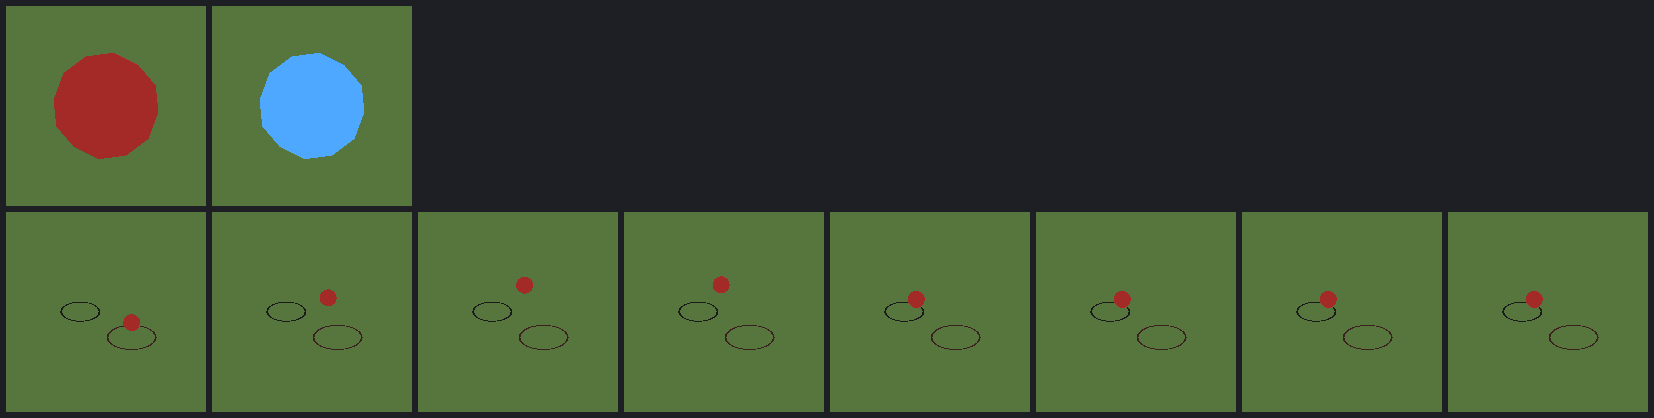
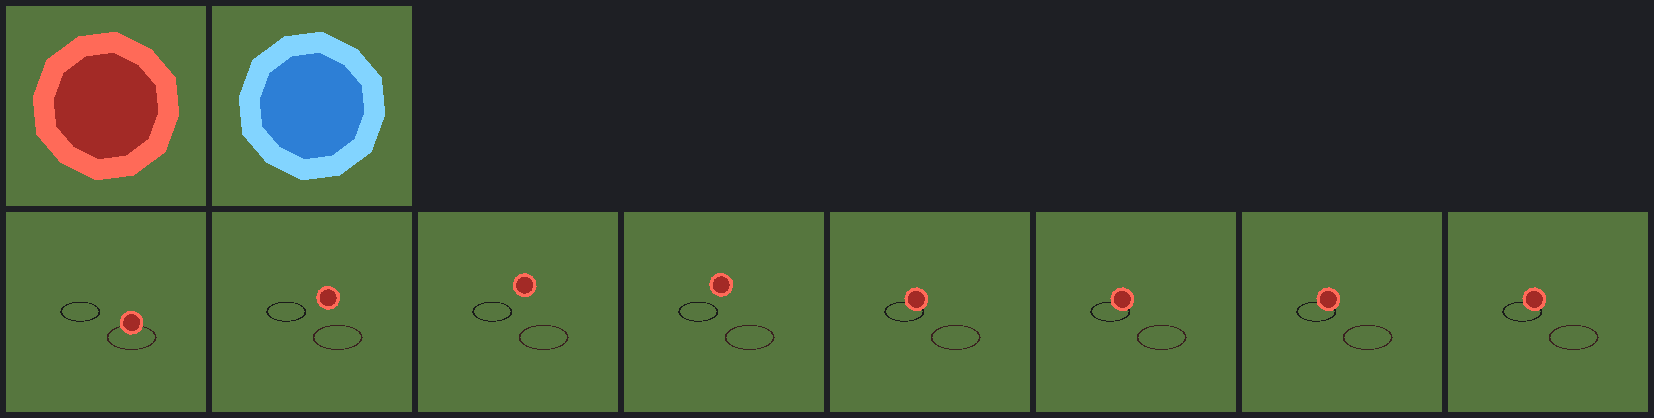
Rim a mote so it separates from the grass
A 7-unit ball of deep blood on a mid-green field is one dark dot among the tree
shadows. The rim is a back-faced shell a little larger than the core -- the
classic cheap outline, and the right one here because this scene is already
flat-shaded and back-face culled, so only the far side survives and what is
drawn is a rim peeking out rather than a second ball in front. One extra draw,
no shader, no second pass.

The three orb knobs became one options bag on the way past, because
`new ShotRig('orb', 7, 0xa32a26, 1, 0xff6a58)` says nothing to a reader.

preview-motes.ts had to learn about BackSide to stay honest: its rasteriser
culls back faces like the real renderer, so a shell would have been culled in
the picture and drawn in the game -- a preview confidently photographing a mote
with no rim on it, which is worse than having no preview.

Claude-Session: https://claude.ai/code/session_01PdFEgGgFpaTyzs239mM4bg

diff --git a/src/render/iso3d/world/shot.ts b/src/render/iso3d/world/shot.ts
@@ -41,6 +41,31 @@ const TRACE_SAMPLES = 16;
 const TRACE_SPACING = 0.55;
 const TRACE_WIDTH = 0.42;
 const TRACE_LIFT = 2.5;
+/**
+ * How much larger the outline shell is than the orb it rims (spec 154).
+ *
+ * A ratio rather than a width in world units, so the rim is the same fraction
+ * of the ball whatever size the ball is -- a mote is 7 units across and the
+ * outline has to survive being drawn a few pixels wide.
+ */
+const OUTLINE_SCALE = 1.4;
+
+/**
+ * How to draw an orb: its colour, how round it is, and what rims it.
+ *
+ * Every field optional, and all three absent is the arcane bolt exactly as it
+ * has always been -- so the one caller that wants none of this passes nothing.
+ */
+export interface OrbLook {
+  readonly tint?: number | undefined;
+  /**
+   * Icosahedron subdivisions. A mote wants a sphere; a conjured bolt is
+   * supposed to look cut from glass and is on screen for a moment.
+   */
+  readonly detail?: number | undefined;
+  /** A brighter shell behind the core, or absent for no rim. */
+  readonly outline?: number | undefined;
+}
 
 export class ShotRig {
   readonly group = new THREE.Group();
@@ -80,13 +105,18 @@ export class ShotRig {
      * its colour is the whole of its identity. A mote reuses this rig rather
      * than growing a second one, and this is the one thing it has to change.
      */
-    tint?: number,
     /**
-     * Icosahedron subdivisions for the orb, or absent for the faceted default
-     * (spec 154). A mote wants a sphere; a conjured bolt is supposed to look
-     * cut from glass and is on screen for a moment.
+     * How to draw the orb, or absent for the arcane core it has always been
+     * (spec 154).
+     *
+     * Orb only, and deliberately: an arrow and a star are *objects* whose
+     * materials say what they are made of, where an orb is a bead of light and
+     * how it is coloured is the whole of its identity. A mote reuses this rig
+     * rather than growing a second one, and this bag is everything it needs to
+     * change. One object rather than three positional arguments, because
+     * `new ShotRig('orb', 7, 0xa32a26, 1, 0xff6a58)` says nothing to a reader.
      */
-    detail?: number,
+    orb?: OrbLook,
   ) {
     this.group.add(this.pivot);
 
@@ -100,7 +130,7 @@ export class ShotRig {
         break;
       default:
         this.spinner = null;
-        this.buildOrb(radius, tint, detail);
+        this.buildOrb(radius, orb);
         break;
     }
 
@@ -235,10 +265,27 @@ export class ShotRig {
   }
 
   /** The look every shot had before this spec, and what an unknown one gets. */
-  private buildOrb(radius: number, tint?: number, detail?: number): void {
+  private buildOrb(radius: number, orb?: OrbLook): void {
+    const size = Math.max(3, radius);
+    // The outline goes on *first* so it is behind the core in draw order, which
+    // costs nothing and means the pair still reads correctly if a caller ever
+    // turns depth testing off.
+    if (orb?.outline !== undefined) {
+      // A back-faced shell: the classic cheap outline, and the right one here
+      // because everything in this scene is already flat-shaded and back-face
+      // culled. Only the far side of the shell survives the cull, so what is
+      // drawn is a rim peeking out around the core rather than a second ball in
+      // front of it -- no shader, no second pass, one extra draw of eighty
+      // triangles.
+      const shell = new THREE.Mesh(
+        this.track(new THREE.IcosahedronGeometry(size * OUTLINE_SCALE, orb.detail ?? 0)),
+        this.track(new THREE.MeshBasicMaterial({ color: orb.outline, side: THREE.BackSide })),
+      );
+      this.pivot.add(shell);
+    }
     const mesh = new THREE.Mesh(
-      this.track(new THREE.IcosahedronGeometry(Math.max(3, radius), detail ?? 0)),
-      this.track(new THREE.MeshBasicMaterial({ color: tint ?? PALETTE.magicCore })),
+      this.track(new THREE.IcosahedronGeometry(size, orb?.detail ?? 0)),
+      this.track(new THREE.MeshBasicMaterial({ color: orb?.tint ?? PALETTE.magicCore })),
     );
     this.pivot.add(mesh);
   }

diff --git a/scripts/preview-motes.ts b/scripts/preview-motes.ts
@@ -69,6 +69,15 @@ interface Tri {
   readonly color: THREE.Color;
   /** Unlit, like the game's own `MeshBasicMaterial` orbs. */
   readonly flat: boolean;
+  /**
+   * Drawn from the inside, like the outline shell (spec 154).
+   *
+   * The rasteriser culls back faces because the real renderer does, and the
+   * outline is a `BackSide` mesh -- so without this the shell would be culled
+   * here and drawn in the game, and this preview would confidently photograph a
+   * mote with no rim on it. That is worse than having no preview.
+   */
+  readonly inside: boolean;
 }
 
 /** Every triangle under `root`, in world space, with its material's colour. */
@@ -88,6 +97,7 @@ function collectTriangles(node3d: THREE.Object3D, into: Tri[] = []): Tri[] {
     // which is precisely the kind of quiet infidelity that makes a preview
     // worse than no preview.
     const flat = (material as { isMeshBasicMaterial?: boolean }).isMeshBasicMaterial === true;
+    const inside = material.side === THREE.BackSide;
     const count = index ? index.count : pos.count;
     for (let i = 0; i < count; i += 3) {
       const corners = [0, 1, 2].map((k) => {
@@ -102,6 +112,7 @@ function collectTriangles(node3d: THREE.Object3D, into: Tri[] = []): Tri[] {
         c: corners[2] as THREE.Vector3,
         color: material.color,
         flat,
+        inside,
       });
     }
   });
@@ -121,8 +132,8 @@ function ring(cx: number, cz: number, radius: number, color: number, into: Tri[]
     // Wound so the normal points up: the rasteriser culls back faces like the
     // real renderer, and a ring wound the other way is drawn and then discarded.
     into.push(
-      { a: at(a0, inner), b: at(a1, radius), c: at(a0, radius), color: tint, flat: true },
-      { a: at(a0, inner), b: at(a1, inner), c: at(a1, radius), color: tint, flat: true },
+      { a: at(a0, inner), b: at(a1, radius), c: at(a0, radius), color: tint, flat: true, inside: false },
+      { a: at(a0, inner), b: at(a1, inner), c: at(a1, radius), color: tint, flat: true, inside: false },
     );
   }
   return into;
@@ -174,7 +185,10 @@ function render(
     e1.subVectors(t.b, t.a);
     e2.subVectors(t.c, t.a);
     normal.crossVectors(e1, e2).normalize();
-    if (normal.dot(forward) > 0) continue;
+    // A `BackSide` mesh keeps the half a front-faced one throws away, which is
+    // what makes the shell a rim around the core rather than a ball in front of
+    // it.
+    if (t.inside ? normal.dot(forward) < 0 : normal.dot(forward) > 0) continue;
     const lambert = t.flat ? 1 : AMBIENT + (1 - AMBIENT) * Math.max(0, normal.dot(LIGHT));
     const r = encode(t.color.r * lambert);
     const g = encode(t.color.g * lambert);
@@ -218,7 +232,11 @@ function render(
 /** The rig the game would build for this mote, at the world position given. */
 function moteRig(typeId: string, x: number, y: number, z: number): THREE.Object3D {
   const look = appearanceOf({ kind: EntityKind.Mote, typeId });
-  const rig = new ShotRig(look.look ?? 'orb', look.radius, look.tint, look.detail);
+  const rig = new ShotRig(look.look ?? 'orb', look.radius, {
+    tint: look.tint,
+    detail: look.detail,
+    outline: look.outline,
+  });
   // World (x, y, z) to three's (x, height, z), the same swap `scene.ts` makes.
   rig.group.position.set(x, z, y);
   return rig.group;

diff --git a/src/render/iso3d/world/appearance.ts b/src/render/iso3d/world/appearance.ts
@@ -54,6 +54,14 @@ export interface Appearance {
    * (spec 154). Motes only -- see {@link MOTE_DETAIL}.
    */
   readonly detail?: number;
+  /**
+   * A brighter rim around the orb, or absent for none (spec 154).
+   *
+   * Motes only. A 7-unit ball of deep blood on a green field is a dark dot on a
+   * dark field at the size it is actually drawn; the rim is what separates it
+   * from the grass without making the whole thing a bright blob.
+   */
+  readonly outline?: number;
 }
 
 /** Fallbacks, sized so an unknown body reads as a body rather than as a speck. */
@@ -78,7 +86,17 @@ const PLAYER_RADIUS = 16;
  */
 const MOTE_RADIUS = 7;
 const MOTE_VITALITY_COLOR = VFX_PALETTE.bloodFresh;
-const MOTE_FOCUS_COLOR = 0x4fa8ff;
+const MOTE_FOCUS_COLOR = 0x2d7fd6;
+/**
+ * The rim, brighter than the fill it surrounds.
+ *
+ * Deliberately *much* brighter rather than a shade up. What has to be beaten is
+ * the arena's grass, which is a mid green, and a dark red ball on it is one dark
+ * dot among the tree shadows. The pair -- deep core, hot rim -- is also what
+ * makes a mote read as lit from within rather than as a painted pebble.
+ */
+const MOTE_VITALITY_RIM = 0xff6a58;
+const MOTE_FOCUS_RIM = 0x82d4ff;
 /**
  * How round a mote is drawn.
  *
@@ -153,6 +171,7 @@ export function appearanceOf(entity: AppearanceInput): Appearance {
         showsHealth: false,
         look: 'orb',
         tint: entity.typeId === 'mote.focus' ? MOTE_FOCUS_COLOR : MOTE_VITALITY_COLOR,
+        outline: entity.typeId === 'mote.focus' ? MOTE_FOCUS_RIM : MOTE_VITALITY_RIM,
         detail: MOTE_DETAIL,
       };
 

diff --git a/src/render/iso3d/world/scene.ts b/src/render/iso3d/world/scene.ts
@@ -1524,7 +1524,7 @@ export class WorldScene {
     const existing = this.bodies.get(id);
     if (existing) return existing;
 
-    const { rig, typeId, radius, look, tint, detail } = appearance;
+    const { rig, typeId, radius, look, tint, detail, outline } = appearance;
     let body: Body;
 
     // Tried before anything else, and for the player as well as a monster
@@ -1596,7 +1596,7 @@ export class WorldScene {
     } else if (rig === 'projectile') {
       // The silhouette comes from the ability that threw it (spec 087), so a
       // thrown weapon reads as one in the air rather than as a bead of light.
-      const shot = new ShotRig(look ?? 'orb', radius, tint, detail);
+      const shot = new ShotRig(look ?? 'orb', radius, { tint, detail, outline });
       // A shot never shows a bar, so its headroom is the shared default rather
       // than anything measured off the mesh.
       body = { group: shot.group, kind: 'projectile', shot, headroom: DEFAULT_HEADROOM };
